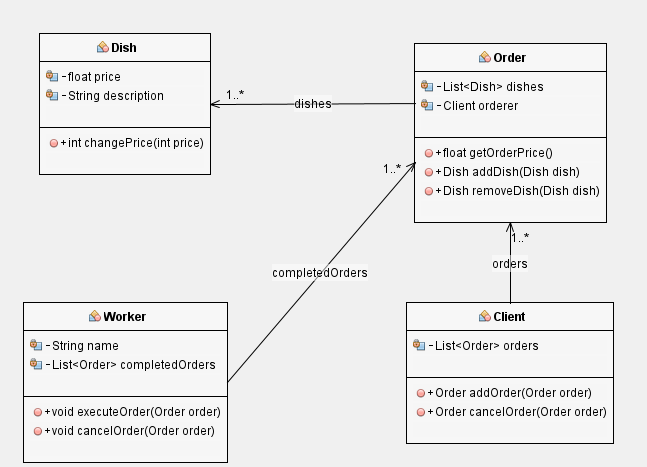
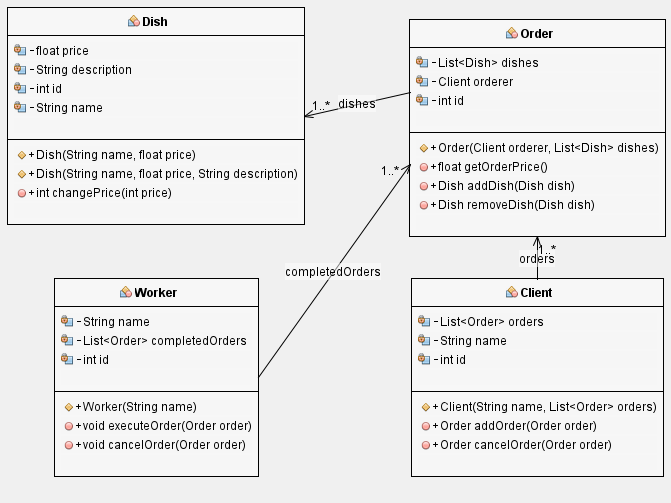
Add missing class constructors methods and fields

diff --git a/src/Client.java b/src/Client.java
@@ -1,4 +1,3 @@
-
 import java.util.List;
 
 public class Client {
@@ -11,5 +10,12 @@ public class Client {
 
     public Order cancelOrder(Order order) {
         throw new UnsupportedOperationException("Not supported yet.");
+    }
+
+    private String name;
+
+    private int id;
+
+    public Client(String name, List<Order> orders) {
     }
 }

diff --git a/src/Dish.java b/src/Dish.java
@@ -7,4 +7,14 @@ public class Dish {
     public int changePrice(int price) {
         throw new UnsupportedOperationException("Not supported yet.");
     }
+
+    private int id;
+
+    private String name;
+
+    public Dish(String name, float price) {
+    }
+
+    public Dish(String name, float price, String description) {
+    }
 }

diff --git a/src/Order.java b/src/Order.java
@@ -1,4 +1,3 @@
-
 import java.util.List;
 
 public class Order {
@@ -17,5 +16,10 @@ public class Order {
 
     public Dish removeDish(Dish dish) {
         throw new UnsupportedOperationException("Not supported yet.");
+    }
+
+    private int id;
+
+    public Order(Client orderer, List<Dish> dishes) {
     }
 }

diff --git a/src/Worker.java b/src/Worker.java
@@ -1,4 +1,3 @@
-
 import java.util.List;
 
 public class Worker {
@@ -11,5 +10,10 @@ public class Worker {
     }
 
     public void cancelOrder(Order order) {
+    }
+
+    private int id;
+
+    public Worker(String name) {
     }
 }
